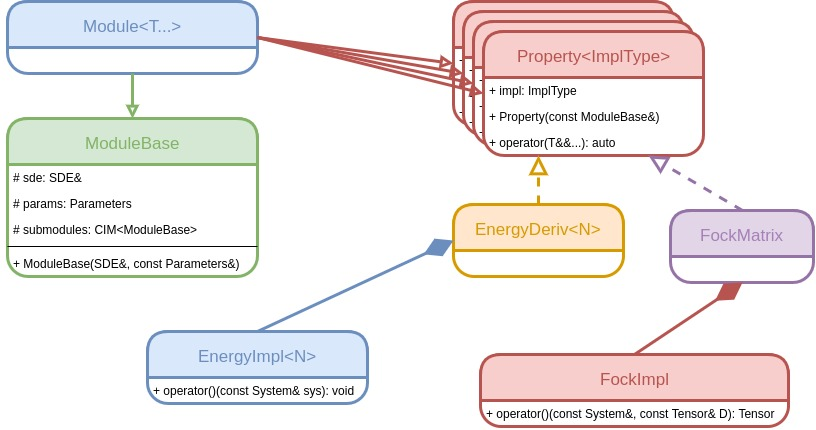
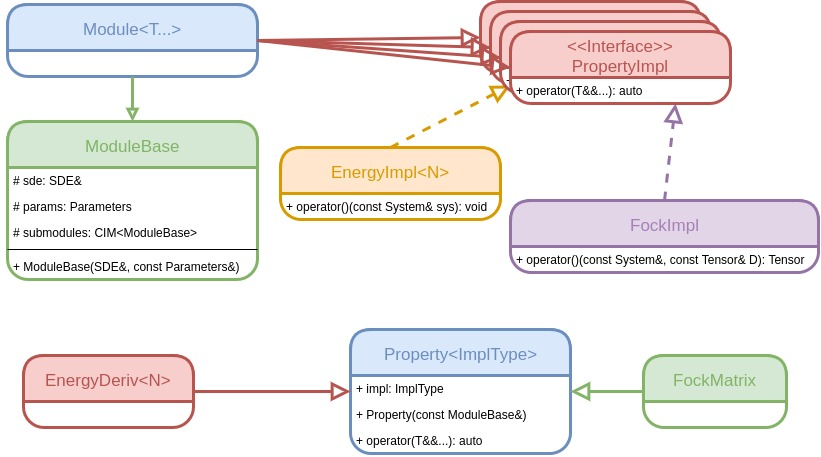
uml actually looks like what I meant it to look like

diff --git a/dox/ModuleManagerAPI.md b/dox/ModuleManagerAPI.md
@@ -7,8 +7,10 @@ formulation of the ModuleManager class.
 
 @section mm_api_use_cases Use Cases
 
-The ModuleManager class's use cases and users are depicted in the following
-use case diagram.
+The ModuleManager class is conceived as being the automated overlord of the SDE.
+The mechanisms available to it are the same mechanisms available to module 
+developers looking to maximize performance.  To that end, the ModuleManager 
+class's use cases and users are depicted in the following use case diagram.
 
 ![](uml/ModuleManager_use_case.jpg)
 
@@ -34,10 +36,12 @@ possible properties and algorithms that a program may want to compute.  For this
 reason it is essential that it is possible to register new modules without 
 having to modify the source code of the SDE.
 
-In order to do its job efficiently the ModuleManager will need to know 
-additional information about the algorithm and the return types.  For example in
-order to parallelize over a series of modules it will need to know that those
-modules are thread-safe and/or process-safe. 
+Exactly what this entails for the ModuleManager depends a bit on which module
+API one chooses. Assuming one uses one of the multiple inheritance APIs it 
+suffices for the ModuleManager to take modules by the common ModuleBase base
+class.  This will implicitly register the properties it brings to the table too.
+Internally we will want to store the `type_index` of each property  
+
 
 @subsection mm_api_call Calling Modules
 

diff --git a/dox/ModuleAPI.md b/dox/ModuleAPI.md
@@ -8,7 +8,10 @@ the API of the Module class and the associated helper classes.
 @section module_api_use_cases Use Cases and Considerations
 
 Modules are envisioned as being the building blocks of a program that utilizes
-the SDE framework.  The following use case diagram details the primary users of
+the SDE framework. This page is primarily focused on how to pass input to a 
+module and on how to get the result back.  Considerations related to module
+introspection are covered on the page [Module Manager API](@ref mm_api).  For 
+our current purposes the following use case diagram details the primary users of
 modules as well as the primary use cases.
 
 ![](uml/ModuleAPI_use_case.jpg)
@@ -419,7 +422,7 @@ alpha or the beta Fock matrix.
 | 5. Harder to call wrong property  |                                     |
 | 6. Simplifies iteration syntax    |                                     |
 
-@section module_api_acyclic Acyclic Visitor API
+@subsection module_api_acyclic Acyclic Visitor API
 
 The property specific API is basically an implementation of the acyclic visitor
 pattern, all that is missing is the "visit".  The following UML diagram shows 
@@ -518,4 +521,3 @@ posterity.
 - Property checking at runtime is a necessary evil if we want to be able to
   dynamically add properties.
   
-   

diff --git a/dox/mainpage.md b/dox/mainpage.md
@@ -35,10 +35,12 @@ Understanding the SDE
 Topics in this section are meant for users who want to understand how the SDE
 works in more detail.
 
-- [Parameters API](@ref parameters_api) in depth discussion of how the 
-  Parameters API came about
+- [Parameters API](@ref parameters_api) details regarding choices for the 
+  Parameters API
 - [Module API](@ref module_api) in depth discussion of how the module API came
   to be
+- [Module Manager API](@ref mm_api) use case and API discussion for the 
+  ModuleManager   
 - [Memoization Considerations](dox/memoization.md) discusses the fine details
   of memoization  
 - [Running an App](dox/RunningAnApp.md) details what happens when a user 
